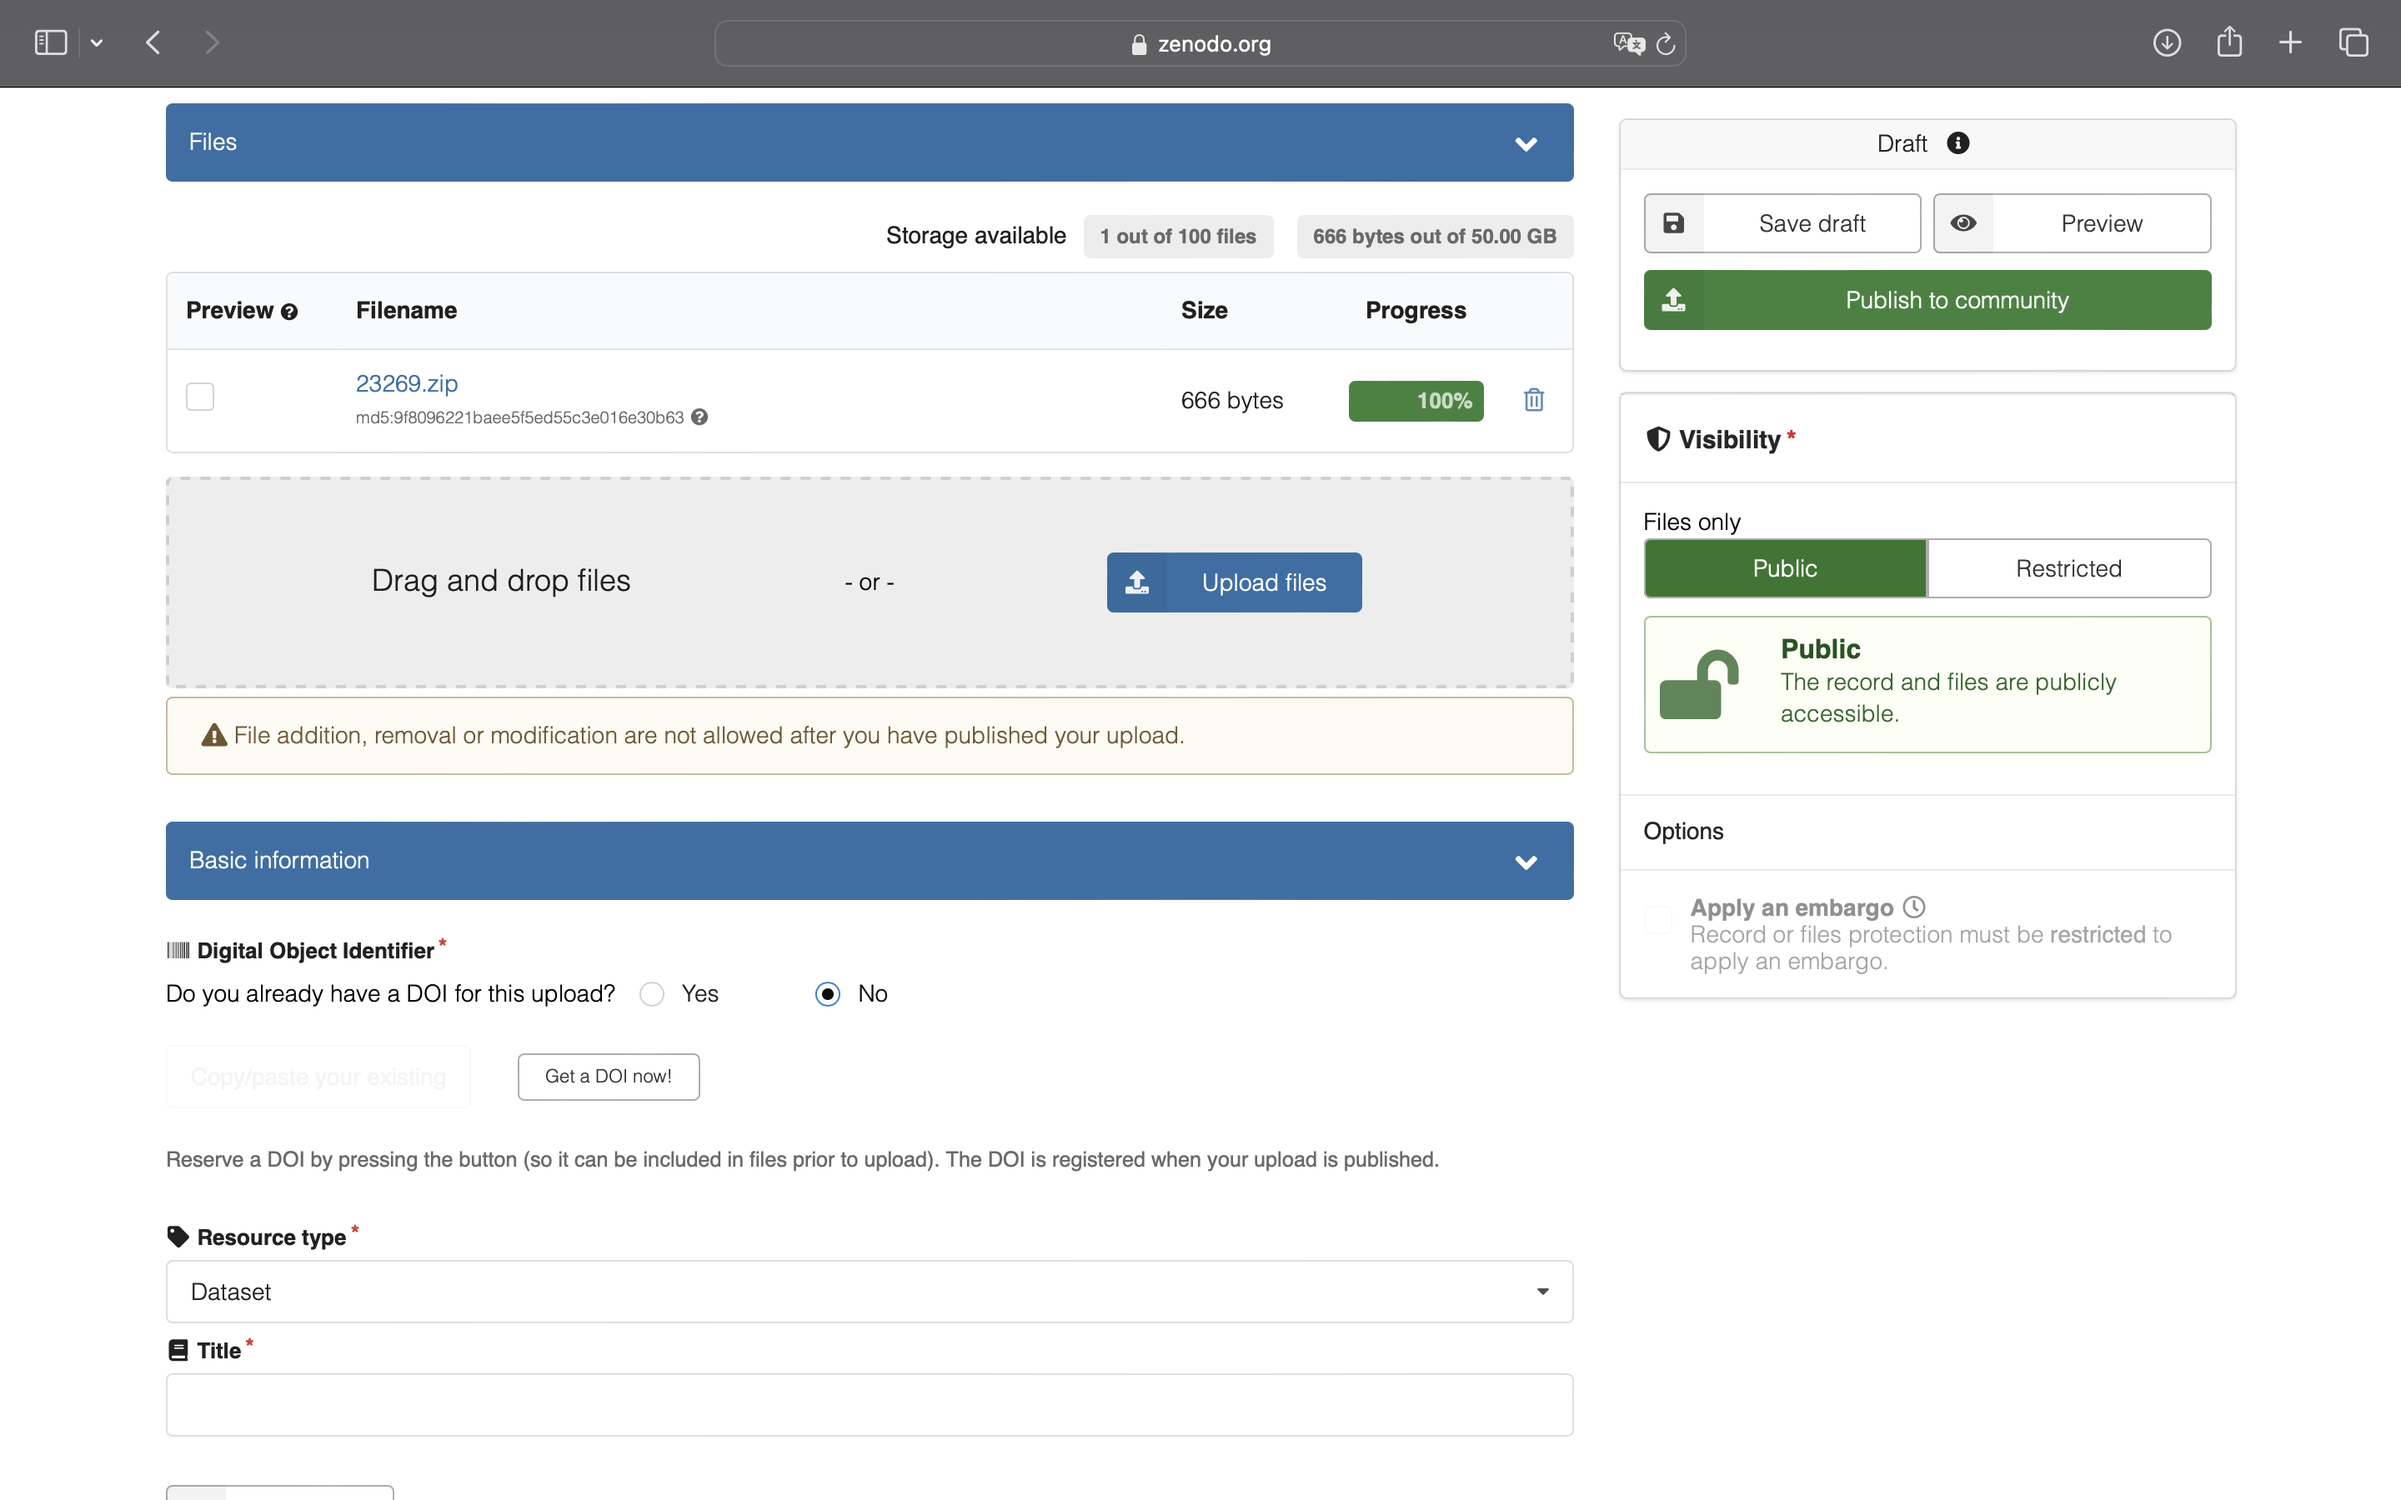
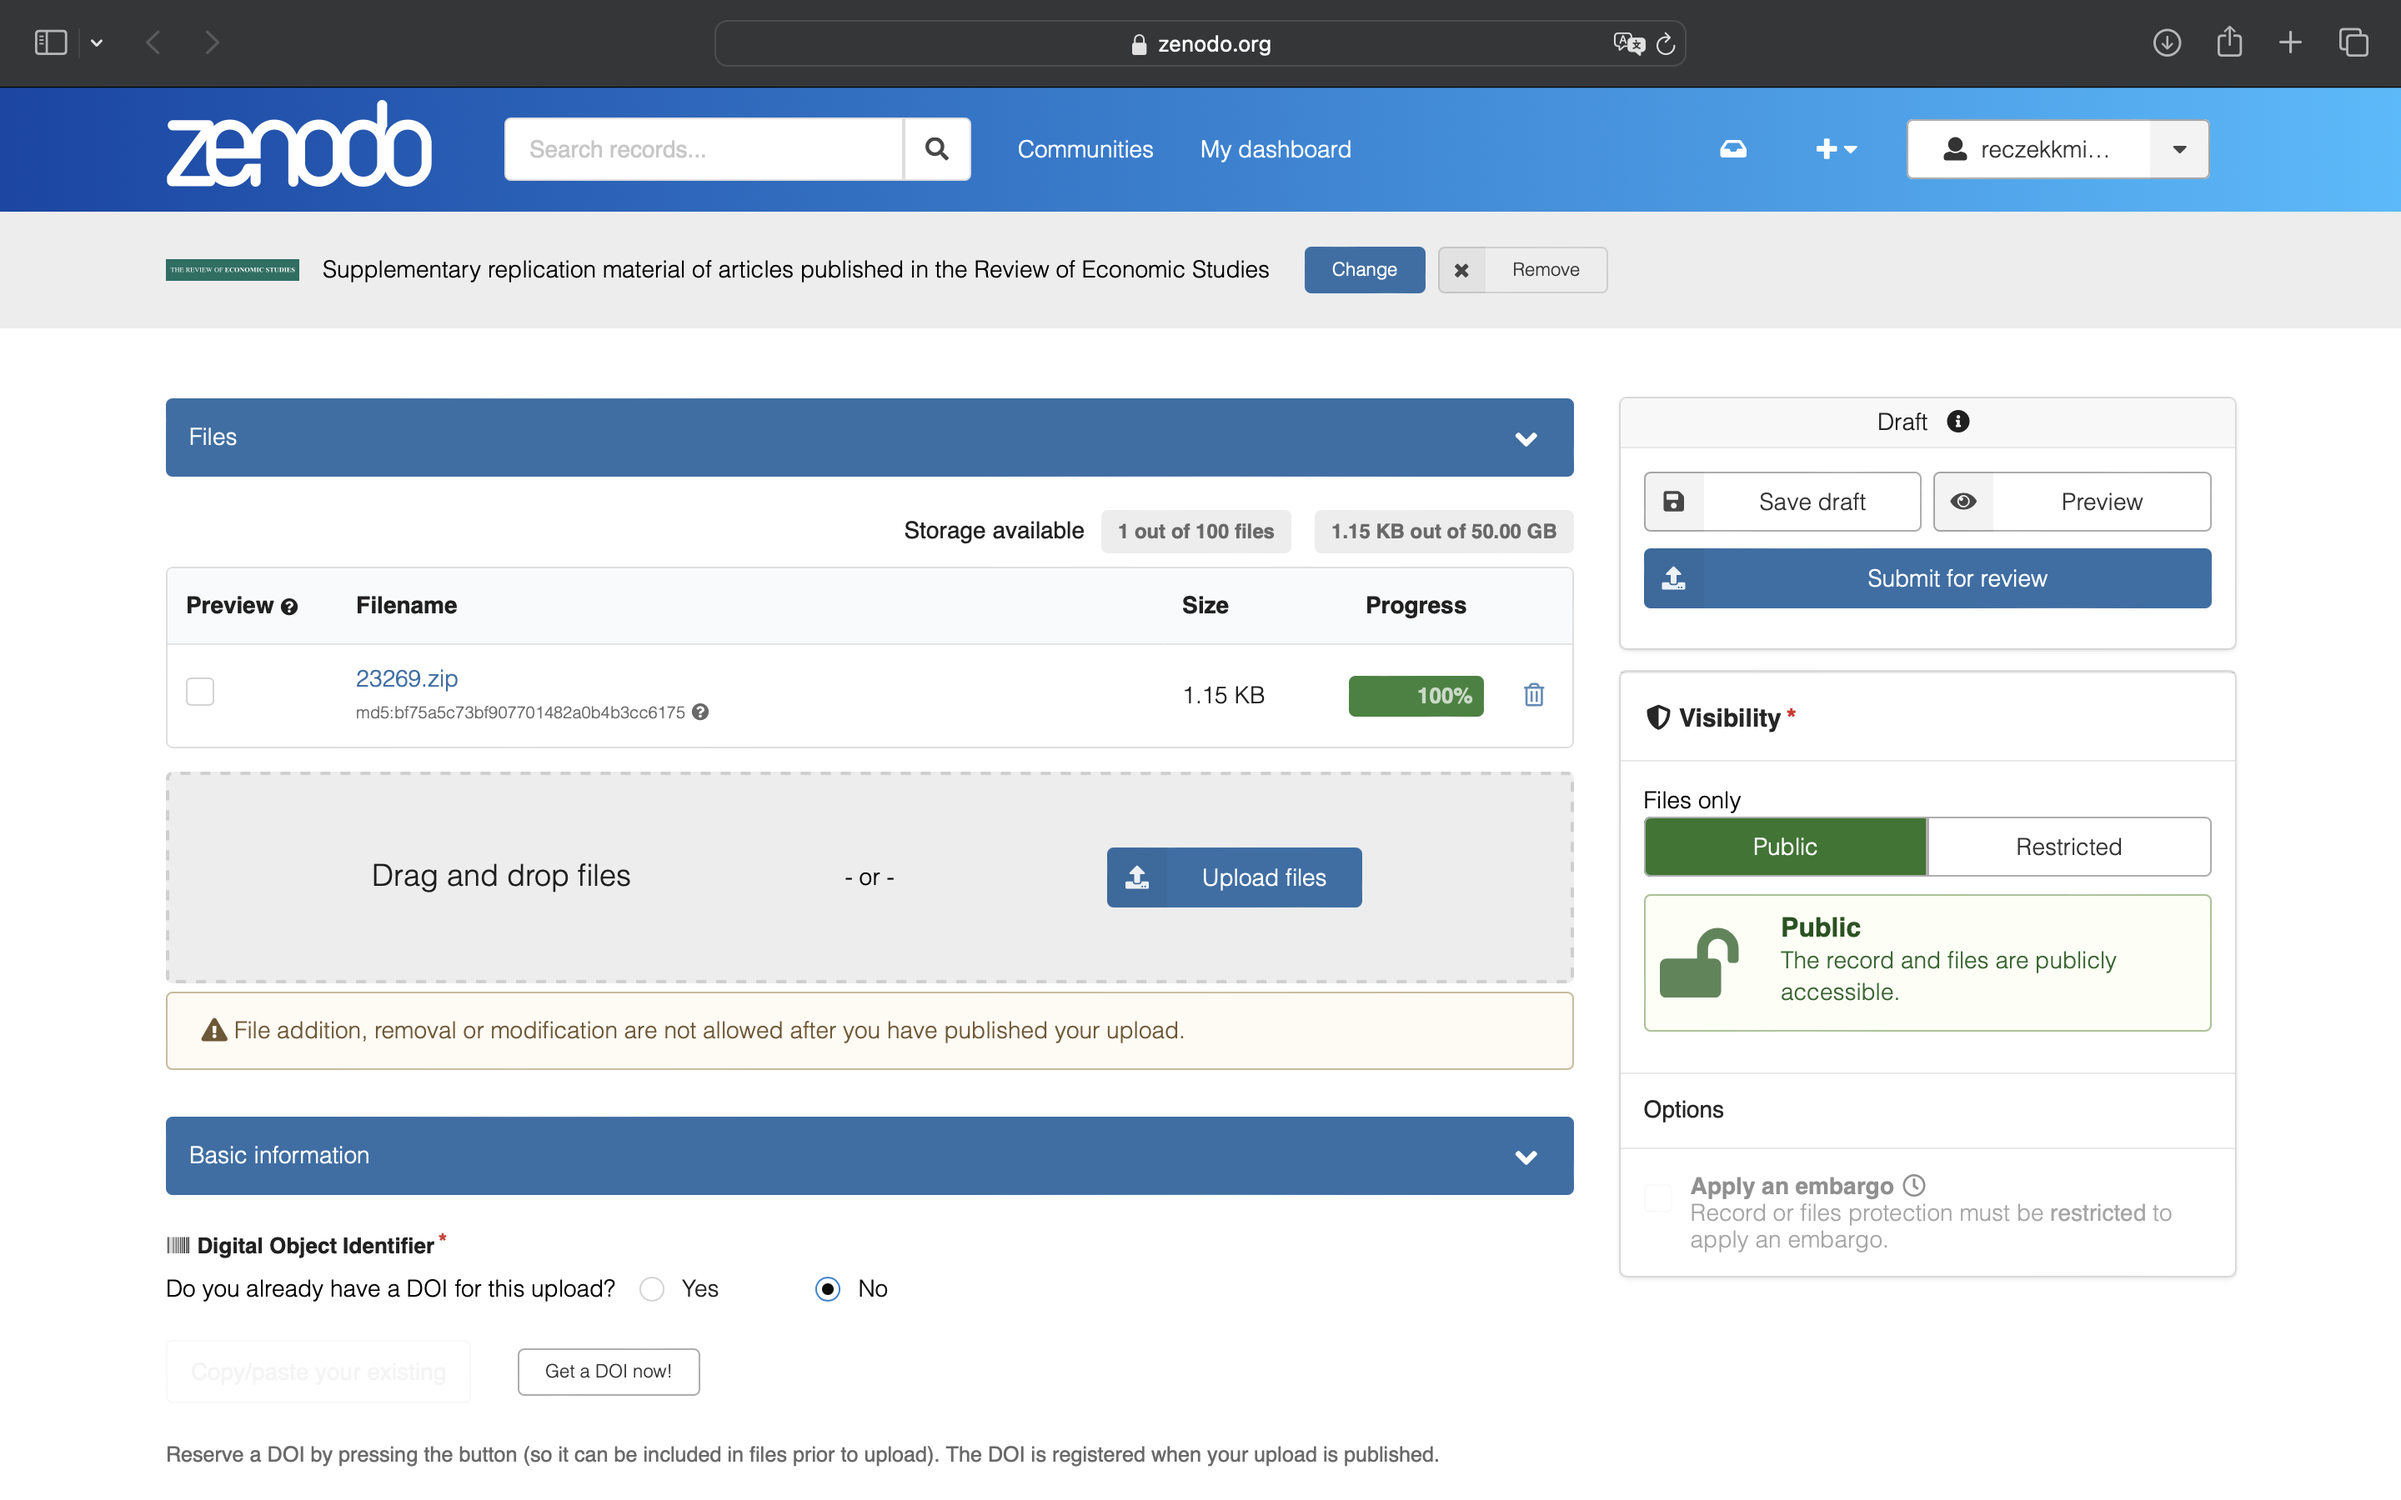
update screenshots and after.md

diff --git a/after.md b/after.md
@@ -68,8 +68,8 @@ The Review uses [zenodo.org](https://zenodo.org/communities/restud-replication/?
 ![]({{ site.baseurl }}/assets/img/zenodo/description.png)
 8. Select an open access License for your upload. Our [Data Availability Policy]({{ site.baseurl }}/before/#data-availability-policy) requires that you allow readers to download, copy and modify your replication package. We recommend a "Creative Commons Attribution 4.0 International" license, but if you wish to use a different license, select "Other (Attribution)."
 ![]({{ site.baseurl }}/assets/img/zenodo/license-other.png)
-9. To avoid mistakes and errors please "Preview" your package before publishing. "Save draft" and then "Publish to community", read and check the warnings and finally "Publish record to community." This will notify the Data Editor who will review the files you submitted. Note that once published, you cannot edit or delete your uploaded files (only metadata). You can only edit uploaded files by creating a new version of the package. 
-![]({{ site.baseurl }}/assets/img/zenodo/publish.png)
+9. To avoid mistakes and errors please "Preview" your package before submitting. "Save draft" and then "Submit for review", read and check the warnings and finally "Submit record for review." This will notify the Data Editor who will review the files you submitted. Note that once published, you cannot edit or delete your uploaded files (only metadata). You can only edit uploaded files by creating a new version of the package. 
+![]({{ site.baseurl }}/assets/img/zenodo/submit.png)
 
 ## Uploading additional versions of your replication package
 In case you are asked to make changes to your replication package, follow these steps.
